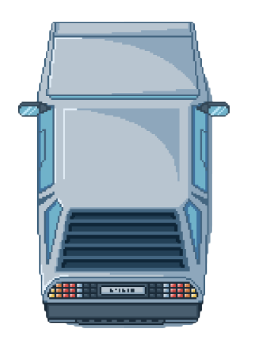
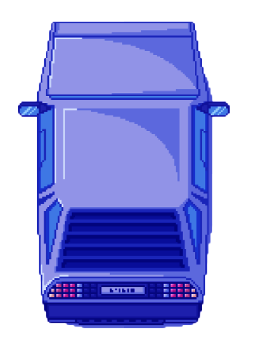
reskin cars

diff --git a/cyberhunter/src/main.py b/cyberhunter/src/main.py
@@ -226,7 +226,7 @@ class Player(pygame.sprite.Sprite):
         self.speed = speed
         self.strength = strength
         self.agility = agility
-        self.health = 3
+        self.health = 5
 
     def update(self, keys, joystick=None):
         if (keys[pygame.K_LEFT] or keys[pygame.K_a]) and self.rect.left > 0:
@@ -667,7 +667,7 @@ def game_loop(screen, road_image, selected_character_data, all_sprites, enemies,
                 bullet.kill()
                 print(f"Enemy health after: {enemy.health}")
                 if enemy.health <= 0:
-                    print("Enemy died!")
+                    print("Enemy died Successfully!")
                     enemy.kill()
                     if random.random() < 0.4:  # 40% chance to drop a powerup
                         powerup_type = random.choice(["speed", "strength", "agility"])
@@ -764,6 +764,18 @@ enemies = pygame.sprite.Group()
 
 # Main loop
 while True:
+    for event in pygame.event.get():
+        if event.type == pygame.QUIT:
+            pygame.quit()
+            sys.exit()
+        elif event.type == pygame.KEYDOWN:
+            if event.key == pygame.K_F11:
+                fullscreen = not fullscreen
+                if fullscreen:
+                    screen = pygame.display.set_mode((SCREEN_WIDTH, SCREEN_HEIGHT), pygame.FULLSCREEN)
+                else:
+                    screen = pygame.display.set_mode((SCREEN_WIDTH, SCREEN_HEIGHT))
+                pygame.display.flip()  # Update the display mode
     if game_state == "menu":
         selected_character, difficulty = menu_loop(screen, font, selected_character)
         reset_character_stats()  # Reset character stats when entering the game
@@ -786,3 +798,5 @@ while True:
             game_state = "menu"
         else:
             level = next_level
+    pygame.display.flip()  # Ensure the display is updated every frame
+    clock.tick(60)  # Maintain the frame rate
